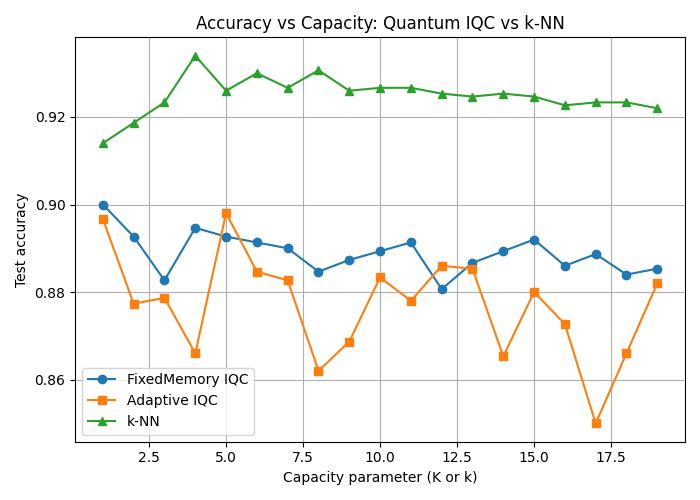
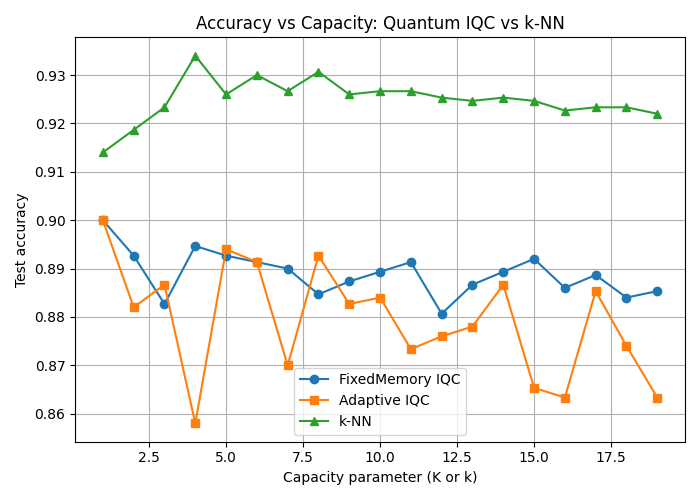
updates capacity

diff --git a/src/evaluate_capacity_sweep_quantum_vs_knn.py b/src/evaluate_capacity_sweep_quantum_vs_knn.py
@@ -55,15 +55,15 @@ def eval_adaptive_initial_k_sweep(Xtr, Xte, ytr_pol, yte_pol, K_values):
             backend=backend,
             delta_cover=0.2,
             spawn_cooldown=100,
-            min_polarized_per_class=1,
+            min_polarized_per_class=2,
         )
 
         pruner = Regime4BPruning(
             memory_bank=memory_bank,
             tau_harm=-0.15,
-            min_age=200,
+            min_age=100,
             min_per_class=1,
-            prune_interval=200,
+            prune_interval=150,
         )
 
         model = AdaptiveMemoryModel(
@@ -75,7 +75,7 @@ def eval_adaptive_initial_k_sweep(Xtr, Xte, ytr_pol, yte_pol, K_values):
         )
 
         model.fit(Xtr, ytr_pol)
-        model.consolidate(Xtr, ytr_pol, epochs=5, eta_scale=0.3)
+        model.consolidate(Xtr, ytr_pol, epochs=5, eta_scale=0.4)
 
         y_pred = model.predict(Xte)
         acc = accuracy_score(yte_pol, y_pred)
@@ -149,236 +149,65 @@ if __name__ == "__main__":
 """
 
 === FixedMemory IQC sweep ===
-🌱 Global seed set to 42
 Fixed IQC | K=1  | Acc=0.9000
-🌱 Global seed set to 42
 Fixed IQC | K=2  | Acc=0.8927
-🌱 Global seed set to 42
 Fixed IQC | K=3  | Acc=0.8827
-🌱 Global seed set to 42
 Fixed IQC | K=4  | Acc=0.8947
-🌱 Global seed set to 42
 Fixed IQC | K=5  | Acc=0.8927
-🌱 Global seed set to 42
 Fixed IQC | K=6  | Acc=0.8913
-🌱 Global seed set to 42
 Fixed IQC | K=7  | Acc=0.8900
-🌱 Global seed set to 42
 Fixed IQC | K=8  | Acc=0.8847
-🌱 Global seed set to 42
 Fixed IQC | K=9  | Acc=0.8873
-🌱 Global seed set to 42
 Fixed IQC | K=10 | Acc=0.8893
-🌱 Global seed set to 42
 Fixed IQC | K=11 | Acc=0.8913
-🌱 Global seed set to 42
 Fixed IQC | K=12 | Acc=0.8807
-🌱 Global seed set to 42
 Fixed IQC | K=13 | Acc=0.8867
-🌱 Global seed set to 42
 Fixed IQC | K=14 | Acc=0.8893
-🌱 Global seed set to 42
 Fixed IQC | K=15 | Acc=0.8920
-🌱 Global seed set to 42
 Fixed IQC | K=16 | Acc=0.8860
-🌱 Global seed set to 42
 Fixed IQC | K=17 | Acc=0.8887
-🌱 Global seed set to 42
 Fixed IQC | K=18 | Acc=0.8840
-🌱 Global seed set to 42
 Fixed IQC | K=19 | Acc=0.8853
 
 === Adaptive IQC sweep ===
-
-🔒 Consolidation phase started (epochs=5, eta_scale=0.3)
-  ✔ Consolidation epoch 1/5
-  ✔ Consolidation epoch 2/5
-  ✔ Consolidation epoch 3/5
-  ✔ Consolidation epoch 4/5
-  ✔ Consolidation epoch 5/5
-🔓 Consolidation phase completed
-
-Adaptive IQC | init K=1  | final mem=6  | Acc=0.8967
-
-🔒 Consolidation phase started (epochs=5, eta_scale=0.3)
-  ✔ Consolidation epoch 1/5
-  ✔ Consolidation epoch 2/5
-  ✔ Consolidation epoch 3/5
-  ✔ Consolidation epoch 4/5
-  ✔ Consolidation epoch 5/5
-🔓 Consolidation phase completed
-
-Adaptive IQC | init K=2  | final mem=4  | Acc=0.8773
-
-🔒 Consolidation phase started (epochs=5, eta_scale=0.3)
-  ✔ Consolidation epoch 1/5
-  ✔ Consolidation epoch 2/5
-  ✔ Consolidation epoch 3/5
-  ✔ Consolidation epoch 4/5
-  ✔ Consolidation epoch 5/5
-🔓 Consolidation phase completed
-
-Adaptive IQC | init K=3  | final mem=4  | Acc=0.8787
-
-🔒 Consolidation phase started (epochs=5, eta_scale=0.3)
-  ✔ Consolidation epoch 1/5
-  ✔ Consolidation epoch 2/5
-  ✔ Consolidation epoch 3/5
-  ✔ Consolidation epoch 4/5
-  ✔ Consolidation epoch 5/5
-🔓 Consolidation phase completed
-
-Adaptive IQC | init K=4  | final mem=8  | Acc=0.8660
-
-🔒 Consolidation phase started (epochs=5, eta_scale=0.3)
-  ✔ Consolidation epoch 1/5
-  ✔ Consolidation epoch 2/5
-  ✔ Consolidation epoch 3/5
-  ✔ Consolidation epoch 4/5
-  ✔ Consolidation epoch 5/5
-🔓 Consolidation phase completed
-
-Adaptive IQC | init K=5  | final mem=8  | Acc=0.8980
-
-🔒 Consolidation phase started (epochs=5, eta_scale=0.3)
-  ✔ Consolidation epoch 1/5
-  ✔ Consolidation epoch 2/5
-  ✔ Consolidation epoch 3/5
-  ✔ Consolidation epoch 4/5
-  ✔ Consolidation epoch 5/5
-🔓 Consolidation phase completed
-
-Adaptive IQC | init K=6  | final mem=7  | Acc=0.8847
-
-🔒 Consolidation phase started (epochs=5, eta_scale=0.3)
-  ✔ Consolidation epoch 1/5
-  ✔ Consolidation epoch 2/5
-  ✔ Consolidation epoch 3/5
-  ✔ Consolidation epoch 4/5
-  ✔ Consolidation epoch 5/5
-🔓 Consolidation phase completed
-
-Adaptive IQC | init K=7  | final mem=10 | Acc=0.8827
-
-🔒 Consolidation phase started (epochs=5, eta_scale=0.3)
-  ✔ Consolidation epoch 1/5
-  ✔ Consolidation epoch 2/5
-  ✔ Consolidation epoch 3/5
-  ✔ Consolidation epoch 4/5
-  ✔ Consolidation epoch 5/5
-🔓 Consolidation phase completed
-
-Adaptive IQC | init K=8  | final mem=11 | Acc=0.8620
-
-🔒 Consolidation phase started (epochs=5, eta_scale=0.3)
-  ✔ Consolidation epoch 1/5
-  ✔ Consolidation epoch 2/5
-  ✔ Consolidation epoch 3/5
-  ✔ Consolidation epoch 4/5
-  ✔ Consolidation epoch 5/5
-🔓 Consolidation phase completed
-
-Adaptive IQC | init K=9  | final mem=17 | Acc=0.8687
-
-🔒 Consolidation phase started (epochs=5, eta_scale=0.3)
-  ✔ Consolidation epoch 1/5
-  ✔ Consolidation epoch 2/5
-  ✔ Consolidation epoch 3/5
-  ✔ Consolidation epoch 4/5
-  ✔ Consolidation epoch 5/5
-🔓 Consolidation phase completed
-
-Adaptive IQC | init K=10 | final mem=21 | Acc=0.8833
-
-🔒 Consolidation phase started (epochs=5, eta_scale=0.3)
-  ✔ Consolidation epoch 1/5
-  ✔ Consolidation epoch 2/5
-  ✔ Consolidation epoch 3/5
-  ✔ Consolidation epoch 4/5
-  ✔ Consolidation epoch 5/5
-🔓 Consolidation phase completed
-
-Adaptive IQC | init K=11 | final mem=21 | Acc=0.8780
-
-🔒 Consolidation phase started (epochs=5, eta_scale=0.3)
-  ✔ Consolidation epoch 1/5
-  ✔ Consolidation epoch 2/5
-  ✔ Consolidation epoch 3/5
-  ✔ Consolidation epoch 4/5
-  ✔ Consolidation epoch 5/5
-🔓 Consolidation phase completed
-
-Adaptive IQC | init K=12 | final mem=21 | Acc=0.8860
-
-🔒 Consolidation phase started (epochs=5, eta_scale=0.3)
-  ✔ Consolidation epoch 1/5
-  ✔ Consolidation epoch 2/5
-  ✔ Consolidation epoch 3/5
-  ✔ Consolidation epoch 4/5
-  ✔ Consolidation epoch 5/5
-🔓 Consolidation phase completed
-
-Adaptive IQC | init K=13 | final mem=21 | Acc=0.8853
-
-🔒 Consolidation phase started (epochs=5, eta_scale=0.3)
-  ✔ Consolidation epoch 1/5
-  ✔ Consolidation epoch 2/5
-  ✔ Consolidation epoch 3/5
-  ✔ Consolidation epoch 4/5
-  ✔ Consolidation epoch 5/5
-🔓 Consolidation phase completed
-
-Adaptive IQC | init K=14 | final mem=23 | Acc=0.8653
-
-🔒 Consolidation phase started (epochs=5, eta_scale=0.3)
-  ✔ Consolidation epoch 1/5
-  ✔ Consolidation epoch 2/5
-  ✔ Consolidation epoch 3/5
-  ✔ Consolidation epoch 4/5
-  ✔ Consolidation epoch 5/5
-🔓 Consolidation phase completed
-
-Adaptive IQC | init K=15 | final mem=24 | Acc=0.8800
-
-🔒 Consolidation phase started (epochs=5, eta_scale=0.3)
-  ✔ Consolidation epoch 1/5
-  ✔ Consolidation epoch 2/5
-  ✔ Consolidation epoch 3/5
-  ✔ Consolidation epoch 4/5
-  ✔ Consolidation epoch 5/5
-🔓 Consolidation phase completed
-
-Adaptive IQC | init K=16 | final mem=28 | Acc=0.8727
-
-🔒 Consolidation phase started (epochs=5, eta_scale=0.3)
-  ✔ Consolidation epoch 1/5
-  ✔ Consolidation epoch 2/5
-  ✔ Consolidation epoch 3/5
-  ✔ Consolidation epoch 4/5
-  ✔ Consolidation epoch 5/5
-🔓 Consolidation phase completed
-
-Adaptive IQC | init K=17 | final mem=20 | Acc=0.8500
-
-🔒 Consolidation phase started (epochs=5, eta_scale=0.3)
-  ✔ Consolidation epoch 1/5
-  ✔ Consolidation epoch 2/5
-  ✔ Consolidation epoch 3/5
-  ✔ Consolidation epoch 4/5
-  ✔ Consolidation epoch 5/5
-🔓 Consolidation phase completed
-
-Adaptive IQC | init K=18 | final mem=26 | Acc=0.8660
-
-🔒 Consolidation phase started (epochs=5, eta_scale=0.3)
-  ✔ Consolidation epoch 1/5
-  ✔ Consolidation epoch 2/5
-  ✔ Consolidation epoch 3/5
-  ✔ Consolidation epoch 4/5
-  ✔ Consolidation epoch 5/5
-🔓 Consolidation phase completed
-
-Adaptive IQC | init K=19 | final mem=23 | Acc=0.8820
+No frames directory specified. Skipping frame saving.
+Adaptive IQC | init K=1  | final mem=3  | Acc=0.9000
+No frames directory specified. Skipping frame saving.
+Adaptive IQC | init K=2  | final mem=3  | Acc=0.8820
+No frames directory specified. Skipping frame saving.
+Adaptive IQC | init K=3  | final mem=3  | Acc=0.8867
+No frames directory specified. Skipping frame saving.
+Adaptive IQC | init K=4  | final mem=8  | Acc=0.8580
+No frames directory specified. Skipping frame saving.
+Adaptive IQC | init K=5  | final mem=2  | Acc=0.8940
+No frames directory specified. Skipping frame saving.
+Adaptive IQC | init K=6  | final mem=3  | Acc=0.8913
+No frames directory specified. Skipping frame saving.
+Adaptive IQC | init K=7  | final mem=6  | Acc=0.8700
+No frames directory specified. Skipping frame saving.
+Adaptive IQC | init K=8  | final mem=4  | Acc=0.8927
+No frames directory specified. Skipping frame saving.
+Adaptive IQC | init K=9  | final mem=15 | Acc=0.8827
+No frames directory specified. Skipping frame saving.
+Adaptive IQC | init K=10 | final mem=20 | Acc=0.8840
+No frames directory specified. Skipping frame saving.
+Adaptive IQC | init K=11 | final mem=6  | Acc=0.8733
+No frames directory specified. Skipping frame saving.
+Adaptive IQC | init K=12 | final mem=20 | Acc=0.8760
+No frames directory specified. Skipping frame saving.
+Adaptive IQC | init K=13 | final mem=10 | Acc=0.8780
+No frames directory specified. Skipping frame saving.
+Adaptive IQC | init K=14 | final mem=16 | Acc=0.8867
+No frames directory specified. Skipping frame saving.
+Adaptive IQC | init K=15 | final mem=20 | Acc=0.8653
+No frames directory specified. Skipping frame saving.
+Adaptive IQC | init K=16 | final mem=19 | Acc=0.8633
+No frames directory specified. Skipping frame saving.
+Adaptive IQC | init K=17 | final mem=28 | Acc=0.8853
+No frames directory specified. Skipping frame saving.
+Adaptive IQC | init K=18 | final mem=28 | Acc=0.8740
+No frames directory specified. Skipping frame saving.
+Adaptive IQC | init K=19 | final mem=24 | Acc=0.8633
 
 === k-NN sweep ===
 k-NN | k=1  | Acc=0.9140
@@ -400,4 +229,6 @@ k-NN | k=16 | Acc=0.9227
 k-NN | k=17 | Acc=0.9233
 k-NN | k=18 | Acc=0.9233
 k-NN | k=19 | Acc=0.9220
+
+📈 Plot saved to: /home/tarakesh/Work/Repo/measurement-free-quantum-classifier/results/figures/capacity_sweep_quantum_vs_knn.png
 """
